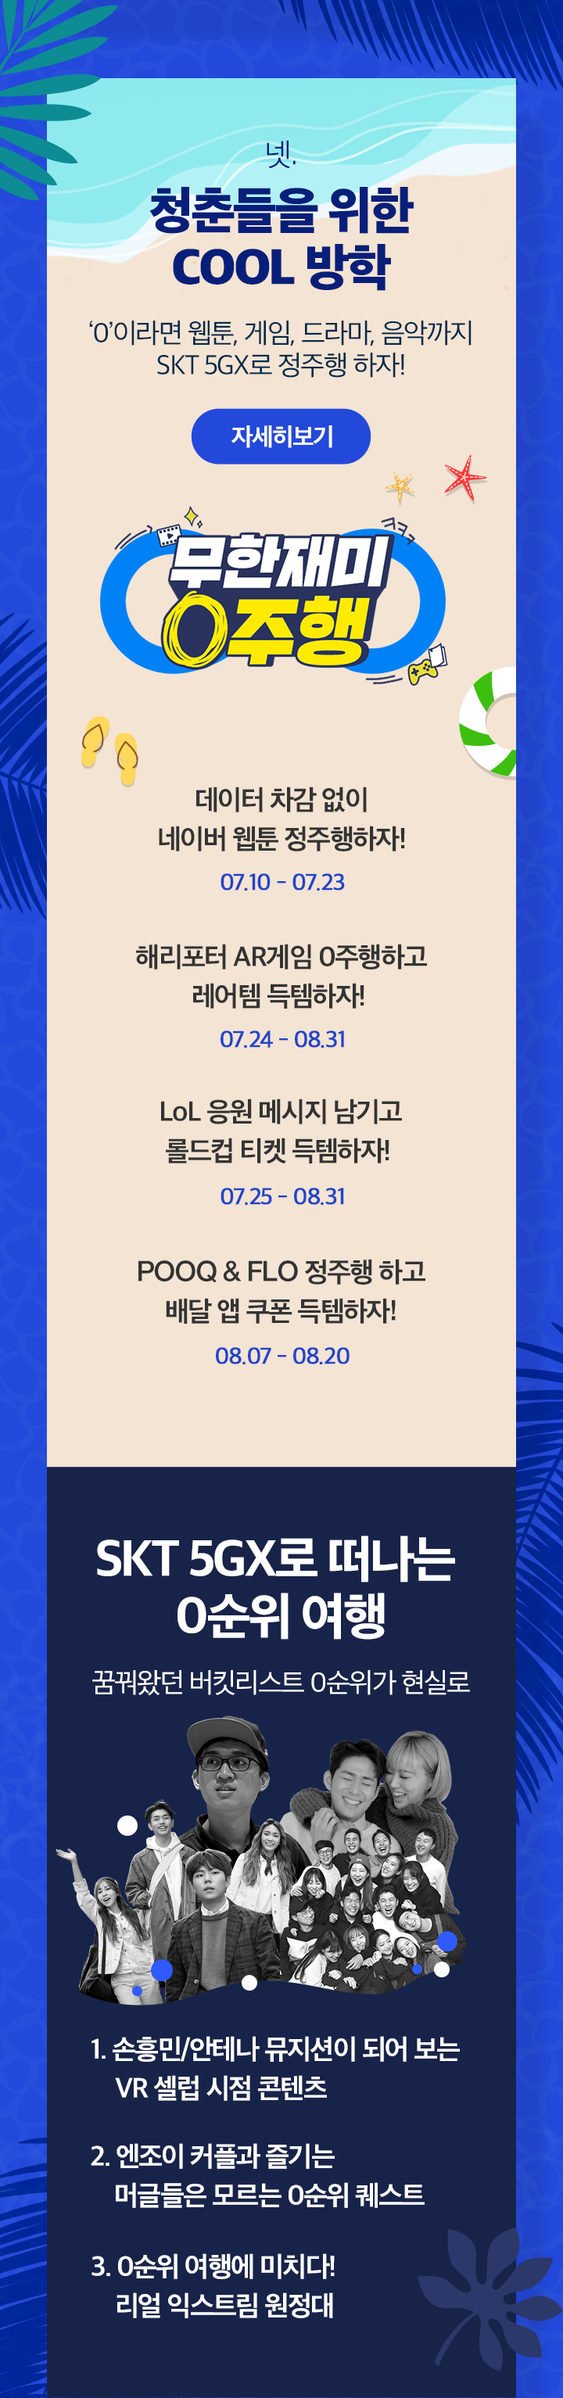
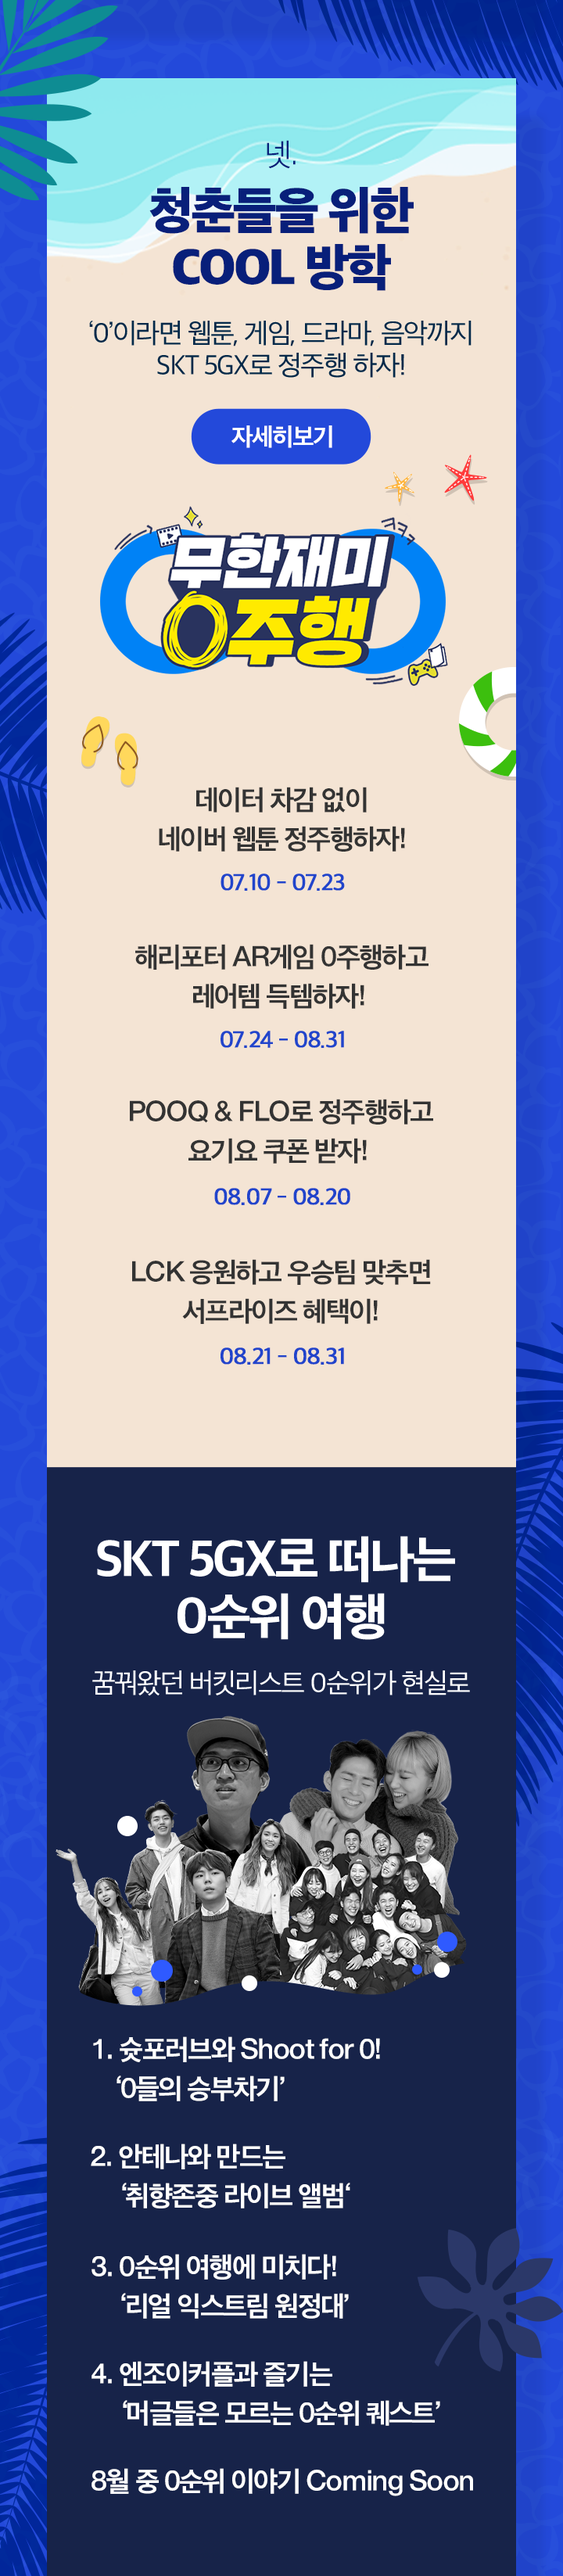
Web Contents Merge

diff --git a/src/client/web-contents/html/sprint/mTL1.1.44.html b/src/client/web-contents/html/sprint/mTL1.1.44.html
@@ -77,9 +77,9 @@
             </div>
         </div>
 
-        <div class="imagemap">
+         <div class="imagemap">
             <img src="/img/event/img_event_mTL1.1.44_5.png" alt="">
-            <div class="evtBtnBox" style="position:absolute; top:17.05%; left:33.6%; width:32.5%; height:2.3%;"><a href="http://bit.ly/2Lmagmj" target="_blank"><span class="blind">쿨방학 자세히보기</span></a></div>
+            <div class="evtBtnBox" style="position:absolute; top:15.8%; left:33.6%; width:32.5%; height:2.3%;"><a href="http://bit.ly/2Lmagmj" target="_blank"><span class="blind">쿨방학 자세히보기</span></a></div>
             <div class="blind">
                 <h3>청춘들을 위한 Cool 방학</h3>
                 <ul>
@@ -94,13 +94,13 @@
 
         <div class="imagemap">
             <img src="/img/event/img_event_mTL1.1.44_6.png" alt="">
-            <div class="evtBtnBox" style="position:absolute; top:19.6%; left:33.6%; width:32.5%; height:2.6%;"><a href="http://bit.ly/2JGowmw" target="_blank"><span class="blind">쿨혜택 자세히보기</span></a></div>
-            <div class="evtBtnBox" style="position:absolute; top:44.5%; left:8.3%; right:8.3%; height:6%; z-index:1;"><a href="http://bit.ly/2Yacrzl" target="_blank"><span class="blind">쿨혜택1 자세히보기</span></a></div>
-            <div class="evtBtnBox" style="position:absolute; top:52.5%; left:8.3%; right:8.3%; height:5%; z-index:1;"><a href="http://bit.ly/32xSEJK" target="_blank"><span class="blind">쿨혜택2 자세히보기</span></a></div>
-            <!-- 190722 현재 비활성화 <div class="evtBtnBox" style="position:absolute; top:59.6%; left:8.3%; right:8.3%; height:6%; z-index:1;"><a href="" target="_blank"><span class="blind">쿨혜택3 자세히보기</span></a></div> -->
-            <!-- 190722 현재 비활성화 <div class="evtBtnBox" style="position:absolute; top:68.1%; left:8.3%; right:8.3%; height:6%; z-index:1;"><a href="" target="_blank"><span class="blind">쿨혜택4 자세히보기</span></a></div> -->
-            <!-- 190722 현재 비활성화 <div class="evtBtnBox" style="position:absolute; top:76.8%; left:8.3%; right:8.3%; height:70px; z-index:1;"><a href="" target="_blank"><span class="blind">쿨혜택5 자세히보기</span></a></div> -->
-            <div class="evtBtnBox" style="position:absolute; top:83.9%; left:8.3%; right:8.3%; height:5%; z-index:1;"><a href="http://m.11st.co.kr/MW/Gate/executeApp.tmall?goStore=Y&goUrl=http%3A//ticket.11st.co.kr/Product/Detail/262660" target="_blank"><span class="blind">전 고객 혜택 자세히보기</span></a></div>
+            <div class="evtBtnBox" style="position:absolute; top:20.2%; left:33.6%; width:32.5%; height:2.6%;"><a href="http://bit.ly/2JGowmw" target="_blank"><span class="blind">쿨혜택 자세히보기</span></a></div>
+            <div class="evtBtnBox" style="position:absolute; top:45.8%; left:8.3%; right:8.3%; height:6%; z-index:1;"><a href="http://bit.ly/2Yacrzl" target="_blank"><span class="blind">쿨혜택1 자세히보기</span></a></div>
+            <!-- <div class="evtBtnBox" style="position:absolute; top:54.3%; left:8.3%; right:8.3%; height:6%; z-index:1;"><a href="http://bit.ly/32xSEJK" target="_blank"><span class="blind">쿨혜택2 자세히보기</span></a></div>
+            <div class="evtBtnBox" style="position:absolute; top:62.8%; left:8.3%; right:8.3%; height:6%; z-index:1;"><a href="" target="_blank"><span class="blind">쿨혜택3 자세히보기</span></a></div>
+            <div class="evtBtnBox" style="position:absolute; top:71.3%; left:8.3%; right:8.3%; height:5%; z-index:1;"><a href="" target="_blank"><span class="blind">쿨혜택4 자세히보기</span></a></div> -->
+            <div class="evtBtnBox" style="position:absolute; top:78.3%; left:8.3%; right:8.3%; height:5%; z-index:1;"><a href="http://bit.ly/32xSEJK" target="_blank"><span class="blind">쿨혜택5 자세히보기</span></a></div>
+            <div class="evtBtnBox" style="position:absolute; top:85.3%; left:8.3%; right:8.3%; height:5%; z-index:1;"><a href="http://m.11st.co.kr/MW/Gate/executeApp.tmall?goStore=Y&goUrl=http%3A//ticket.11st.co.kr/Product/Detail/262660" target="_blank"><span class="blind">전 고객 혜택 자세히보기</span></a></div>
             <div class="blind">
                 <h3>5대 특별 혜택 Cool 혜택</h3>
                 <ul>
